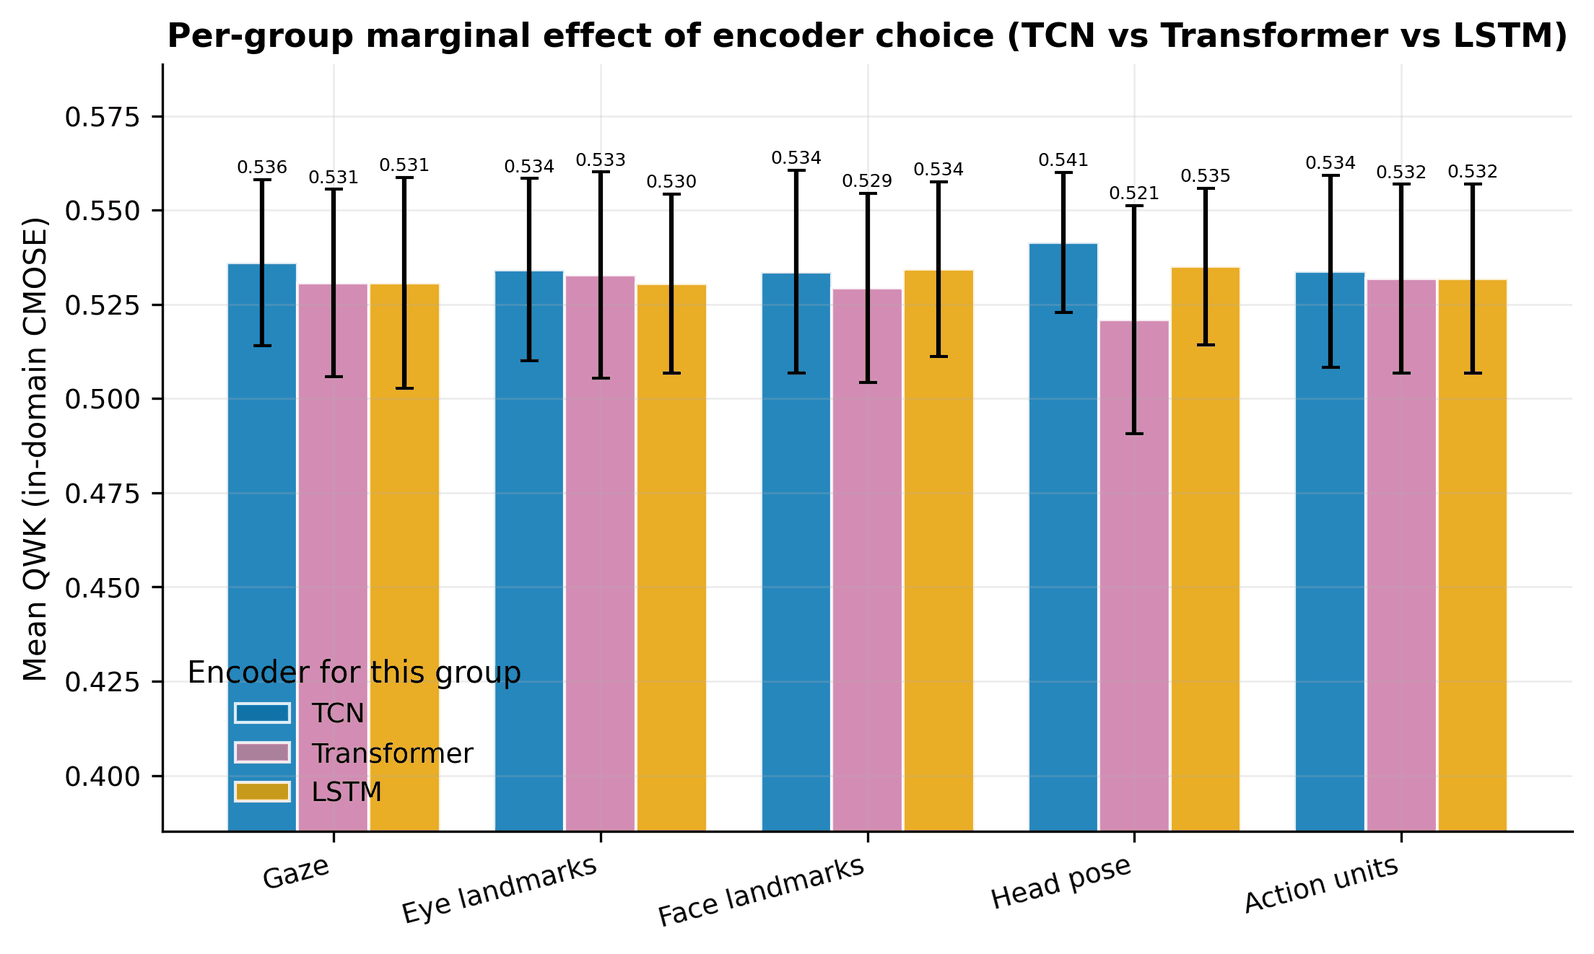
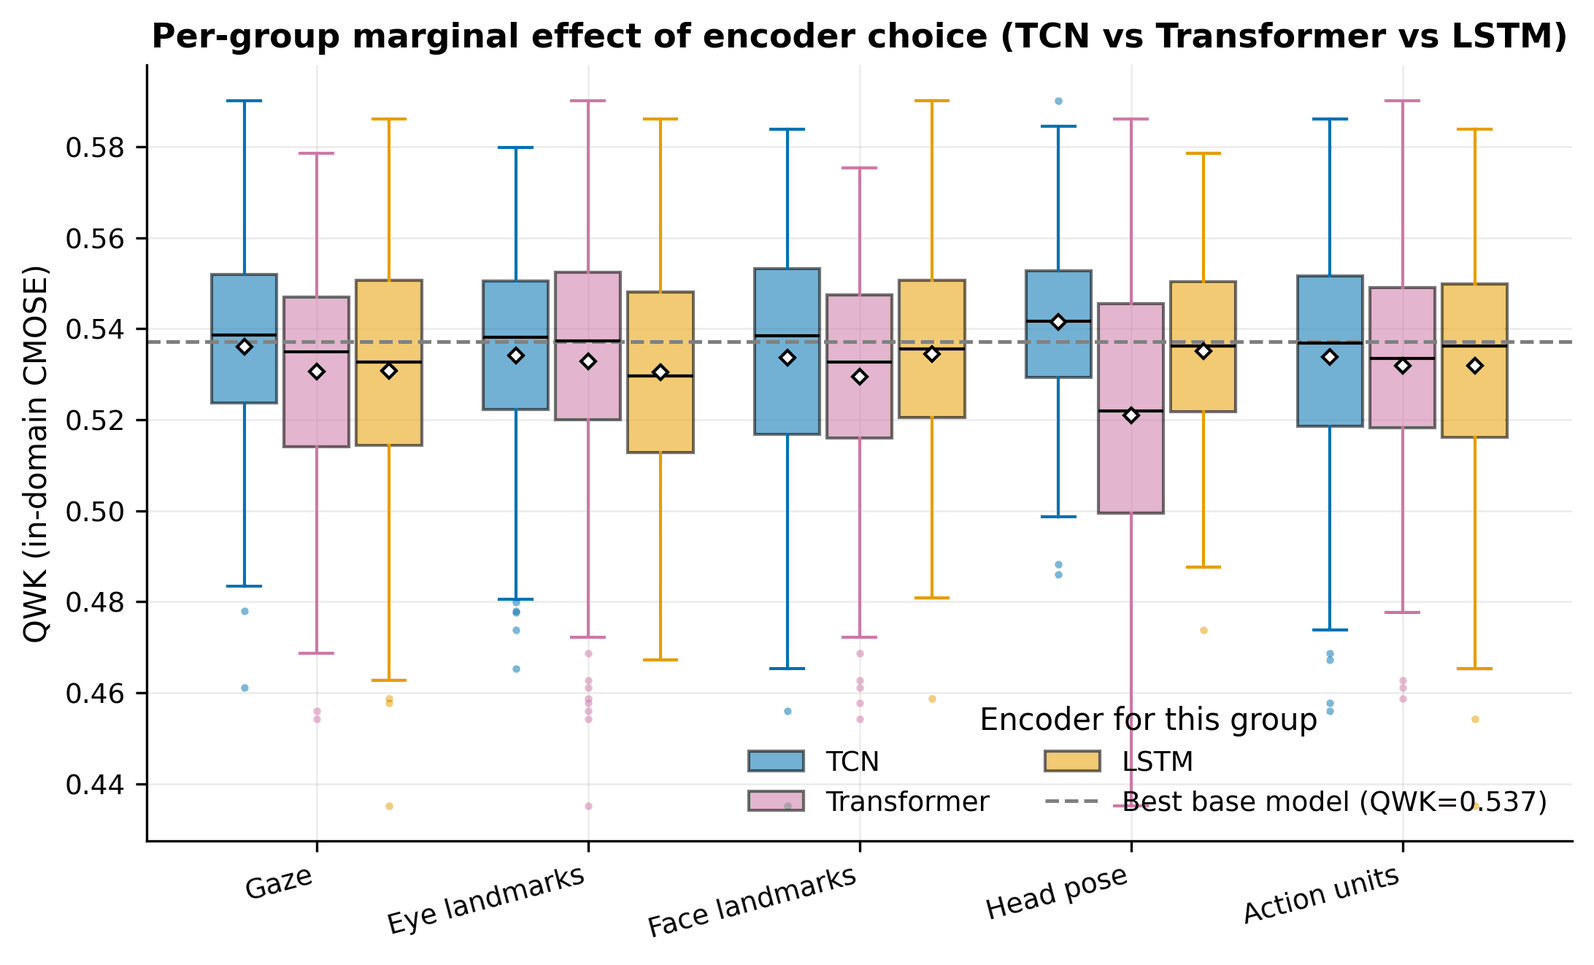
...

diff --git a/src/visualization/figures_hybrid.py b/src/visualization/figures_hybrid.py
@@ -58,29 +58,40 @@ def fig_ablation_distribution(directory: Path | None = None) -> Path:
 
 
 def fig_group_marginal(directory: Path | None = None) -> Path:
-    """For each semantic group, mean QWK when its encoder is TCN, Transformer, or LSTM."""
+    """For each semantic group, the QWK distribution when its encoder is TCN, Transformer, or LSTM.
+
+    A box plot (not a bar chart) because the configurations form a distribution: the marginal
+    spread per encoder is the point, and a box plot reads honestly without a zero baseline.
+    """
     frame = _indomain_hybrid()
     groups = ag.OPENFACE_GROUP_ORDER
     tokens = ag.ARCH_TOKENS
     width = 0.8 / len(tokens)
     fig, ax = new_fig(figsize=(8.4, 4.6))
     for j, token in enumerate(tokens):
-        means, errs = [], []
-        for g in groups:
-            vals = frame[frame[f"arch_{g}"] == token][_METRIC]
-            means.append(float(vals.mean()))
-            errs.append(float(vals.std()))
+        data = [frame[frame[f"arch_{g}"] == token][_METRIC].to_numpy() for g in groups]
         offsets = np.arange(len(groups)) + (j - (len(tokens) - 1) / 2) * width
-        bars = ax.bar(offsets, means, width=width, yerr=errs, capsize=3,
-                      color=_ARCH_COLOR[token], alpha=0.85, edgecolor="white",
-                      label=ag.ARCH_TOKEN_DISPLAY[token])
-        ax.bar_label(bars, fmt="%.3f", fontsize=6.0, padding=1)
+        bp = ax.boxplot(data, positions=offsets, widths=width * 0.9, patch_artist=True,
+                        showmeans=True, manage_ticks=False,
+                        medianprops=dict(color="black", linewidth=1.0),
+                        meanprops=dict(marker="D", markersize=3.5,
+                                       markerfacecolor="white", markeredgecolor="black"),
+                        flierprops=dict(marker="o", markersize=2.5, alpha=0.5,
+                                        markerfacecolor=_ARCH_COLOR[token],
+                                        markeredgecolor="none"))
+        for patch in bp["boxes"]:
+            patch.set_facecolor(_ARCH_COLOR[token])
+            patch.set_alpha(0.55)
+        for whisker in bp["whiskers"] + bp["caps"]:
+            whisker.set_color(_ARCH_COLOR[token])
+        bp["boxes"][0].set_label(ag.ARCH_TOKEN_DISPLAY[token])
+    base = _best_base_indomain()
+    ax.axhline(base, ls="--", color="gray", lw=1.2, label=f"Best base model (QWK={base:.3f})")
     ax.set_xticks(np.arange(len(groups)))
     ax.set_xticklabels([ag.GROUP_DISPLAY[g] for g in groups], rotation=15, ha="right")
-    ax.set_ylabel("Mean QWK (in-domain CMOSE)")
-    ax.set_ylim(bottom=max(0.0, frame[_METRIC].min() - 0.05))
+    ax.set_ylabel("QWK (in-domain CMOSE)")
     ax.set_title("Per-group marginal effect of encoder choice (TCN vs Transformer vs LSTM)")
-    ax.legend(title="Encoder for this group")
+    ax.legend(title="Encoder for this group", loc="lower right", ncol=2)
     return save(fig, "hybrid_group_marginal", directory=directory)
 
 

diff --git a/src/analysis/thesis_latex.py b/src/analysis/thesis_latex.py
@@ -335,14 +335,21 @@ def _copy_figure_for_print(src: Path, dest: Path) -> None:
         dest.write_bytes(min(truecolour, palette, key=len))
 
 
-def copy_figures() -> list[Path]:
+def publish_figure(src: Path) -> Path:
+    """Copy one rendered figure into ``Figure/``, downsized to 300 dpi on A4 (see _copy_figure_for_print).
+
+    The single point where a PNG in ``outputs/thesis/figures`` becomes the copy the thesis
+    compiles. ``figbase.save`` calls this on every save so a freshly regenerated figure can never
+    leave a stale print copy behind; ``copy_figures`` / the full pipeline re-run it in bulk.
+    """
     PROJECT_FIGURE_DIR.mkdir(parents=True, exist_ok=True)
-    copied = []
-    for png in sorted(FIGURE_DIR.glob("*.png")):
-        dest = PROJECT_FIGURE_DIR / png.name
-        _copy_figure_for_print(png, dest)
-        copied.append(dest)
-    return copied
+    dest = PROJECT_FIGURE_DIR / src.name
+    _copy_figure_for_print(src, dest)
+    return dest
+
+
+def copy_figures() -> list[Path]:
+    return [publish_figure(png) for png in sorted(FIGURE_DIR.glob("*.png"))]
 
 
 def generate_tables() -> list[Path]:

diff --git a/src/visualization/figbase.py b/src/visualization/figbase.py
@@ -54,10 +54,20 @@ def new_fig(*args, **kwargs):
 
 
 def save(fig, name: str, *, directory: Path | None = None) -> Path:
-    """Save ``fig`` as ``<name>.png`` (300 dpi); return the path."""
+    """Save ``fig`` as ``<name>.png`` (300 dpi); return the path.
+
+    Saving to the canonical FIGURE_DIR also refreshes the thesis's downsized print copy in
+    ``documents/thesis/Figure`` so regenerating a single figure can't leave the compiled thesis
+    showing a stale version. A custom ``directory`` (e.g. a scratch dir) skips the publish step.
+    """
     directory = directory or FIGURE_DIR
     directory.mkdir(parents=True, exist_ok=True)
     png_path = directory / f"{name}.png"
     fig.savefig(png_path)
     plt.close(fig)
+    if directory == FIGURE_DIR:
+        # Lazy import: thesis_latex imports this module, so importing it at top level would cycle.
+        from src.analysis.thesis_latex import publish_figure
+
+        publish_figure(png_path)
     return png_path

diff --git a/documents/thesis/Table/T6_private_by_source.tex b/documents/thesis/Table/T6_private_by_source.tex
@@ -2,6 +2,7 @@
 \centering
 \caption{T6. Private set (test-only): best base vs best hybrid by training source.}
 \label{tab:T6_private_by_source}
+\fittable{%
 \begin{tabular}{llrlrrr}
 \toprule
 Train source & Best base (model/loss) & Base QWK & Best hybrid (arch) & Hybrid QWK & Hybrid acc & Hybrid macro-acc \\
@@ -10,5 +11,6 @@ CMOSE & openface\_transformer/ce & 0.190 & Hybrid (OpenFace only) TCN\_T\_LSTM\_
 DaiSEE & openface\_lstm/ce & 0.110 & Hybrid + I3D T\_T\_LSTM\_LSTM\_TCN & 0.337 & 0.672 & 0.346 \\
 Combined & openface\_transformer/ce & 0.285 & Hybrid + I3D T\_TCN\_LSTM\_TCN\_TCN & 0.403 & 0.634 & 0.390 \\
 \bottomrule
-\end{tabular}
+\end{tabular}%
+}
 \end{table}

diff --git a/documents/thesis/Table/T2_base_indomain.tex b/documents/thesis/Table/T2_base_indomain.tex
@@ -2,6 +2,7 @@
 \centering
 \caption{T2. Base models $\times$ losses, in-domain (CMOSE$\rightarrow$CMOSE), sorted by QWK.}
 \label{tab:T2_base_indomain}
+\fittable{%
 \begin{tabular}{llrrrrrr}
 \toprule
 Model & Loss & Accuracy & Macro-Accuracy & QWK & Cohen $\kappa$ & MAE & Macro-MAE \\
@@ -22,5 +23,6 @@ openface\_lstm & Weighted CE & 0.527 & 0.534 & 0.329 & 0.238 & 0.563 & 0.673 \\
 openface\_lstm & Ordinal & 0.415 & 0.491 & 0.318 & 0.154 & 0.673 & 0.694 \\
 openface\_mlp & Ordinal & 0.493 & 0.348 & 0.253 & 0.118 & 0.542 & 0.798 \\
 \bottomrule
-\end{tabular}
+\end{tabular}%
+}
 \end{table}

diff --git a/documents/thesis/Table/T4_hybrid_topk.tex b/documents/thesis/Table/T4_hybrid_topk.tex
@@ -2,6 +2,7 @@
 \centering
 \caption{T4. Top-10 hybrid configs in-domain (CMOSE), sorted by QWK.}
 \label{tab:T4_hybrid_topk}
+\fittable{%
 \begin{tabular}{llrrrr}
 \toprule
 Variant & Arch (gaze\_eye\_face\_head\_au) & Accuracy & Macro-Acc & QWK & Cohen $\kappa$ \\
@@ -17,5 +18,6 @@ Hybrid + I3D & T\_T\_LSTM\_T\_TCN & 0.770 & 0.583 & 0.576 & 0.490 \\
 Hybrid (OpenFace only) & LSTM\_T\_TCN\_TCN\_TCN & 0.781 & 0.568 & 0.576 & 0.497 \\
 Hybrid (OpenFace only) & TCN\_TCN\_T\_TCN\_LSTM & 0.767 & 0.570 & 0.575 & 0.485 \\
 \bottomrule
-\end{tabular}
+\end{tabular}%
+}
 \end{table}

diff --git a/documents/thesis/Table/T1_dataset_stats.tex b/documents/thesis/Table/T1_dataset_stats.tex
@@ -2,6 +2,7 @@
 \centering
 \caption{T1. Dataset statistics and class balance (\%).}
 \label{tab:T1_dataset_stats}
+\fittable{%
 \begin{tabular}{lrrrrrrrr}
 \toprule
 Dataset & Total & Train & Val & Test & HD\% & DE\% & EG\% & HE\% \\
@@ -10,5 +11,6 @@ CMOSE & 12197 & 8783 & 2193 & 1221 & 2.800 & 18.100 & 69.400 & 9.600 \\
 DaiSEE & 8571 & 5358 & 1429 & 1784 & 0.700 & 5.100 & 50.300 & 43.800 \\
 Combined & 20768 & 14141 & 3622 & 3005 & 2.000 & 12.800 & 61.500 & 23.700 \\
 \bottomrule
-\end{tabular}
+\end{tabular}%
+}
 \end{table}

diff --git a/documents/thesis/Table/T5_group_marginal.tex b/documents/thesis/Table/T5_group_marginal.tex
@@ -2,6 +2,7 @@
 \centering
 \caption{T5. Per-group marginal effect of encoder choice on in-domain QWK.}
 \label{tab:T5_group_marginal}
+\fittable{%
 \begin{tabular}{lrrrrl}
 \toprule
 Group & Mean QWK (TCN) & Mean QWK (Transformer) & Mean QWK (LSTM) & Spread & Prefers \\
@@ -12,5 +13,6 @@ Face landmarks & 0.534 & 0.529 & 0.534 & 0.005 & LSTM \\
 Head pose & 0.541 & 0.521 & 0.535 & 0.020 & TCN \\
 Action units & 0.534 & 0.532 & 0.532 & 0.002 & TCN \\
 \bottomrule
-\end{tabular}
+\end{tabular}%
+}
 \end{table}

diff --git a/documents/thesis/Table/T7_indomain_datasets.tex b/documents/thesis/Table/T7_indomain_datasets.tex
@@ -2,6 +2,7 @@
 \centering
 \caption{T7. Best in-domain result per dataset (CMOSE vs DaiSEE).}
 \label{tab:T7_indomain_datasets}
+\fittable{%
 \begin{tabular}{lllrrr}
 \toprule
 In-domain dataset & Best model & Loss & QWK & Accuracy & Macro-Acc \\
@@ -9,5 +10,6 @@ In-domain dataset & Best model & Loss & QWK & Accuracy & Macro-Acc \\
 CMOSE & openface\_tcn & CE & 0.537 & 0.761 & 0.535 \\
 DaiSEE & openface\_tcn & CE & 0.139 & 0.521 & 0.273 \\
 \bottomrule
-\end{tabular}
+\end{tabular}%
+}
 \end{table}

diff --git a/documents/thesis/Table/T3_crossdomain.tex b/documents/thesis/Table/T3_crossdomain.tex
@@ -2,6 +2,7 @@
 \centering
 \caption{T3. Best base model per cross-domain cell (QWK and Accuracy).}
 \label{tab:T3_crossdomain}
+\fittable{%
 \begin{tabular}{lllllr}
 \toprule
 Metric & Train & Test & Best model & Loss & Score \\
@@ -25,5 +26,6 @@ Accuracy & DaiSEE & CMOSE & openface\_mlp & Ordinal & 0.691 \\
 Accuracy & DaiSEE & DaiSEE & i3d\_mlp & CE & 0.534 \\
 Accuracy & DaiSEE & Private & openface\_lstm & CE & 0.590 \\
 \bottomrule
-\end{tabular}
+\end{tabular}%
+}
 \end{table}

diff --git a/documents/thesis/main.tex b/documents/thesis/main.tex
@@ -29,6 +29,8 @@
 \usepackage{capt-of}
 \usepackage{multirow}
 \usepackage{booktabs} % Result tables in Table/ use \toprule \midrule \bottomrule
+% Shrink a wide table to the text width, but never enlarge a table that already fits.
+\newcommand{\fittable}[1]{\resizebox{\ifdim\width>\linewidth \linewidth\else \width\fi}{!}{#1}}
 \usepackage{fancyhdr}
 
 \usepackage[font=small,labelfont=bf]{caption}

diff --git a/AGENTS.md b/AGENTS.md
@@ -4,16 +4,19 @@
 1. Run `./init.sh` to verify environment health
 2. Read `progress.md` for context from last session
 3. Check `git log --oneline -10` for recent changes
-4. In thesis writing task, use folder structure of `documents/Thesis_Template` as example and guideline for folder `documents/thesis`.
-5. In thesis writing task, read files in folder `documents/Thesis_Template` to understand expected content of each chapter, section, ...
+
+## Thesis Writing Instruction
+1. Use folder structure of `documents/Thesis_Template` as example and guideline for folder `documents/thesis`.
+2. Read files in folder `documents/Thesis_Template` to understand expected content of each chapter, section, ...
 
 ## Rules
 - Do not generate not requred files in different formats and file types.
 - General use figures are stored in outputs, while thesis use figures and tables are stored in documents/thesis.
 - When change/delete/move any files, reconcile it in other files or documents that mentioned them.
-- Work on exactly ONE feature at a time
-- Never declare "done" without passing tests
-- Run the full test suite before committing
+- Length of chaper must not differ too much (recommended 8-11 pages long).
+- Number of chapter/section, name of chapter/section can be changed.
+- Architecture must be drawn as diagram (can ask user to draw them manually).
+- Losses, Metrics, Architectures, Pipeline must be clearly and fully described.
 - Update `progress.md` after every session
 - Commit only when the project is in a clean, resumable state
 
